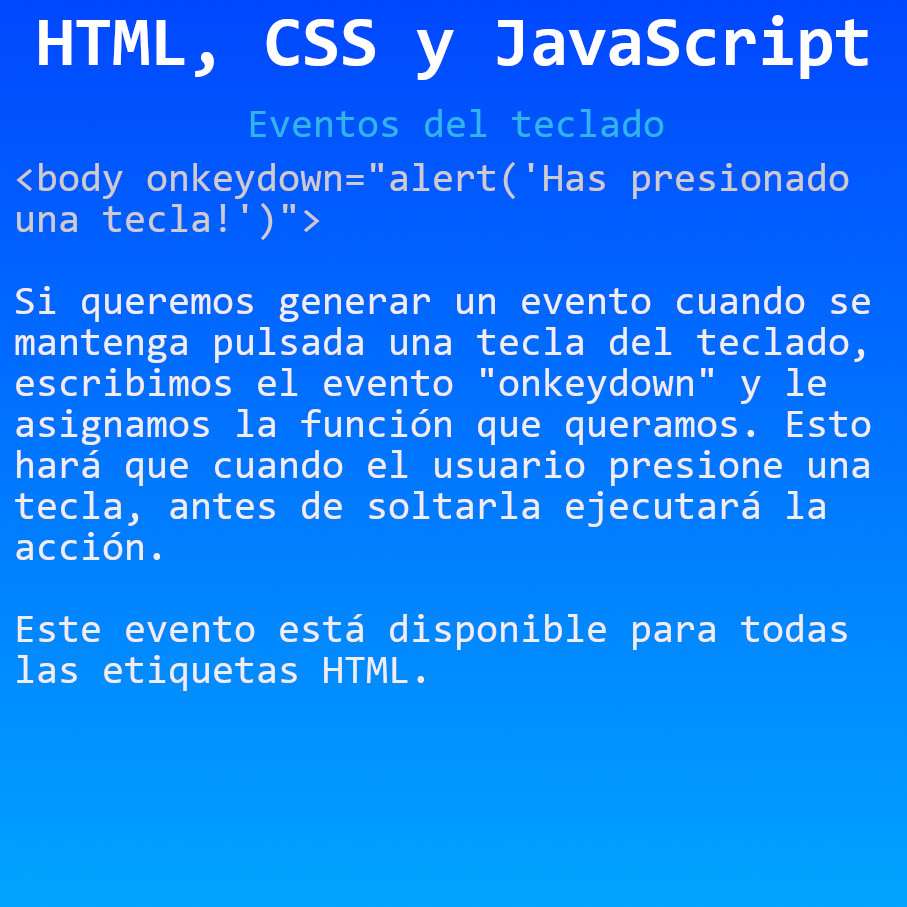
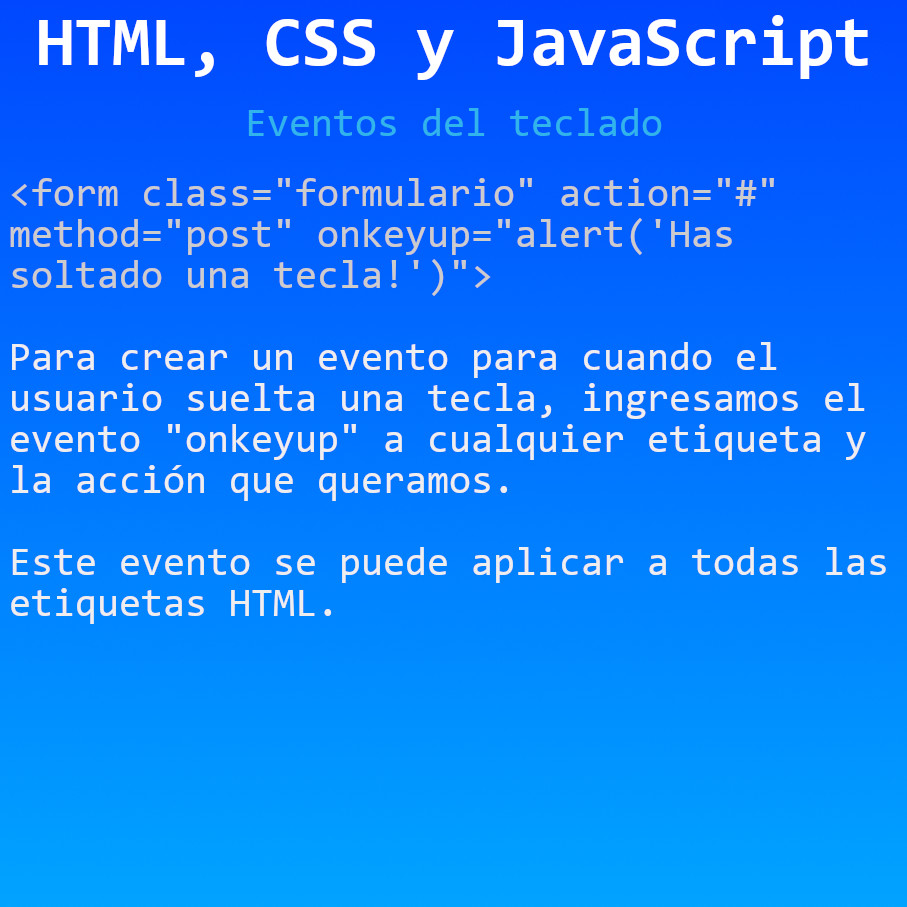
Eventos del teclado
Eventos del teclado en JavaScript

diff --git a/HTML, CSS y JavaScript/Eventos del teclado/index.html b/HTML, CSS y JavaScript/Eventos del teclado/index.html
@@ -16,7 +16,8 @@
   <!-- crear evento al presionar una tecla sin soltarla -->
   <body onkeydown="alert('Has presionado una tecla!')">
     <!-- FORMULARIO -->
-    <form class="formulario" action="#" method="post">
+    <!-- generar evento cuando se suelta una tecla que estaba presionada -->
+    <form class="formulario" action="#" method="post" onkeyup="alert('Has soltado una tecla!')">
       <!-- DATOS PERSONALES -->
       <fieldset>
         <legend>Datos personales</legend>
